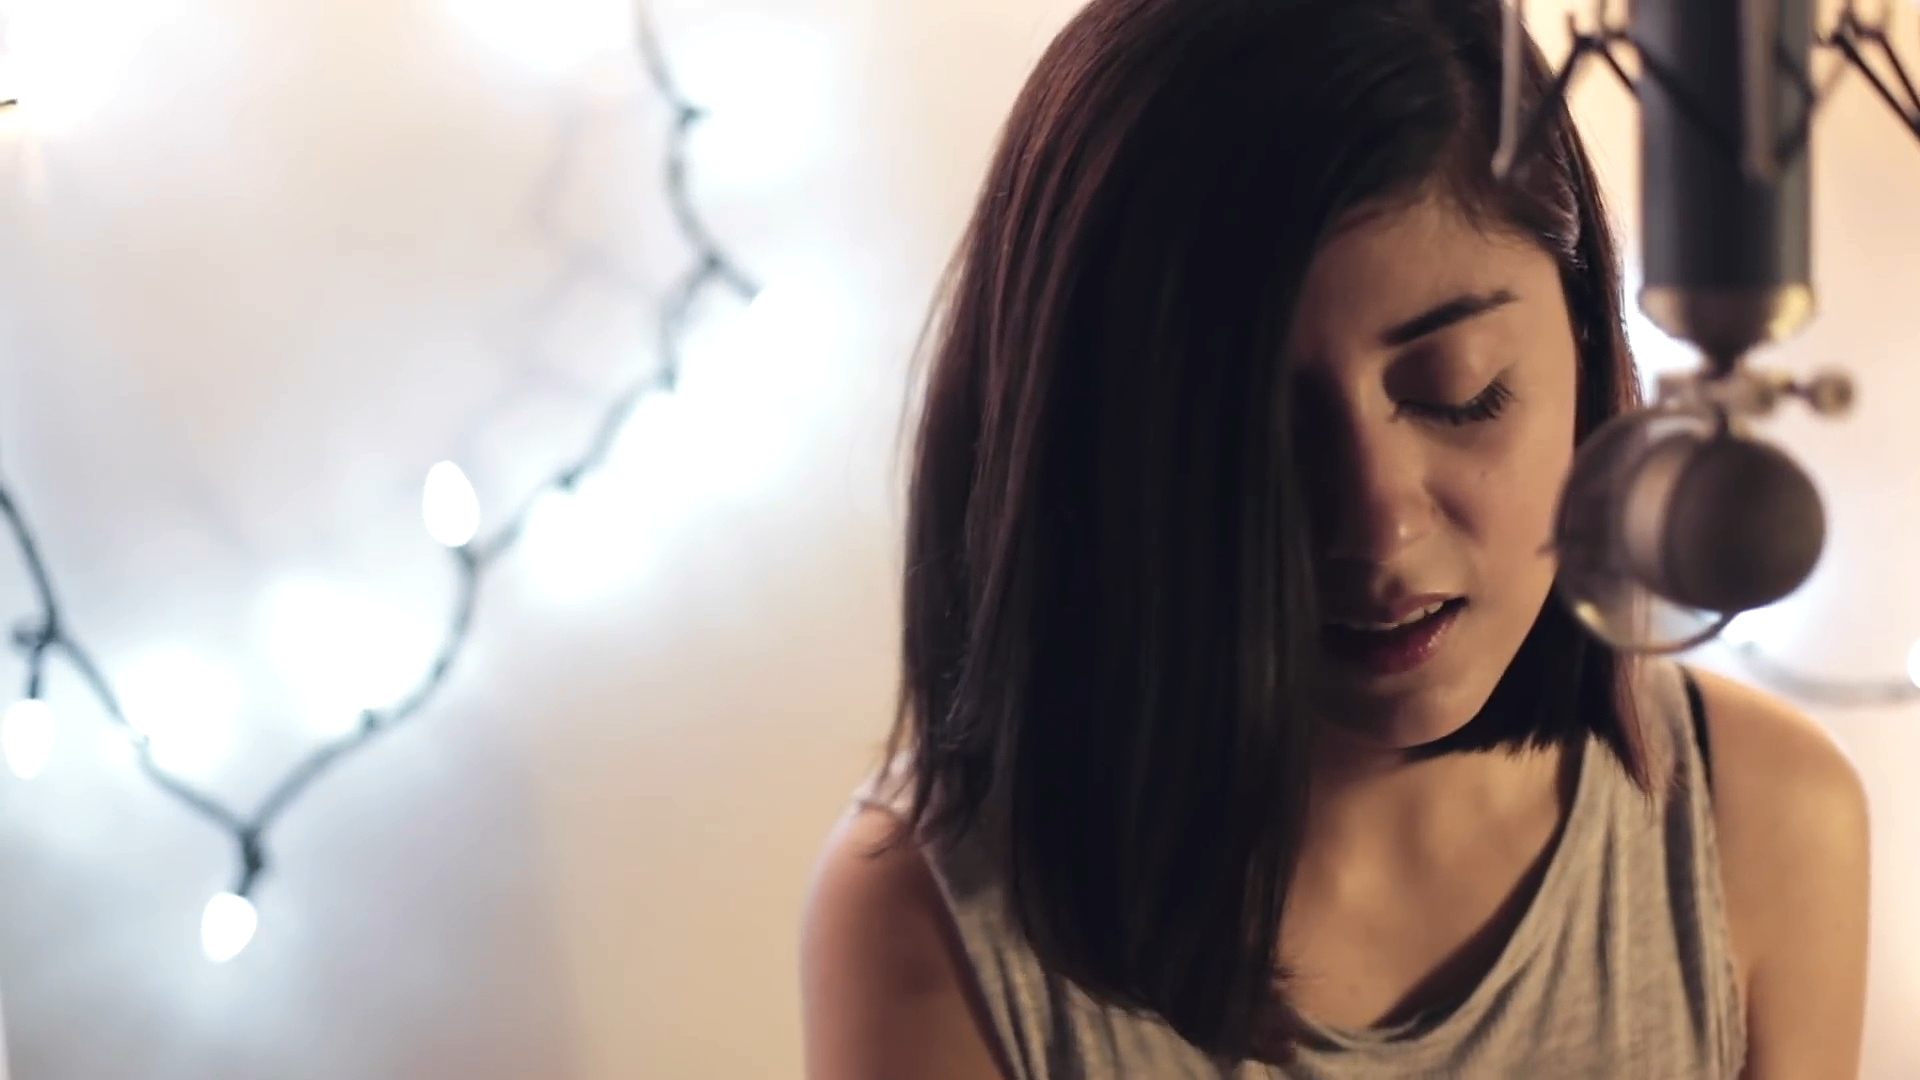
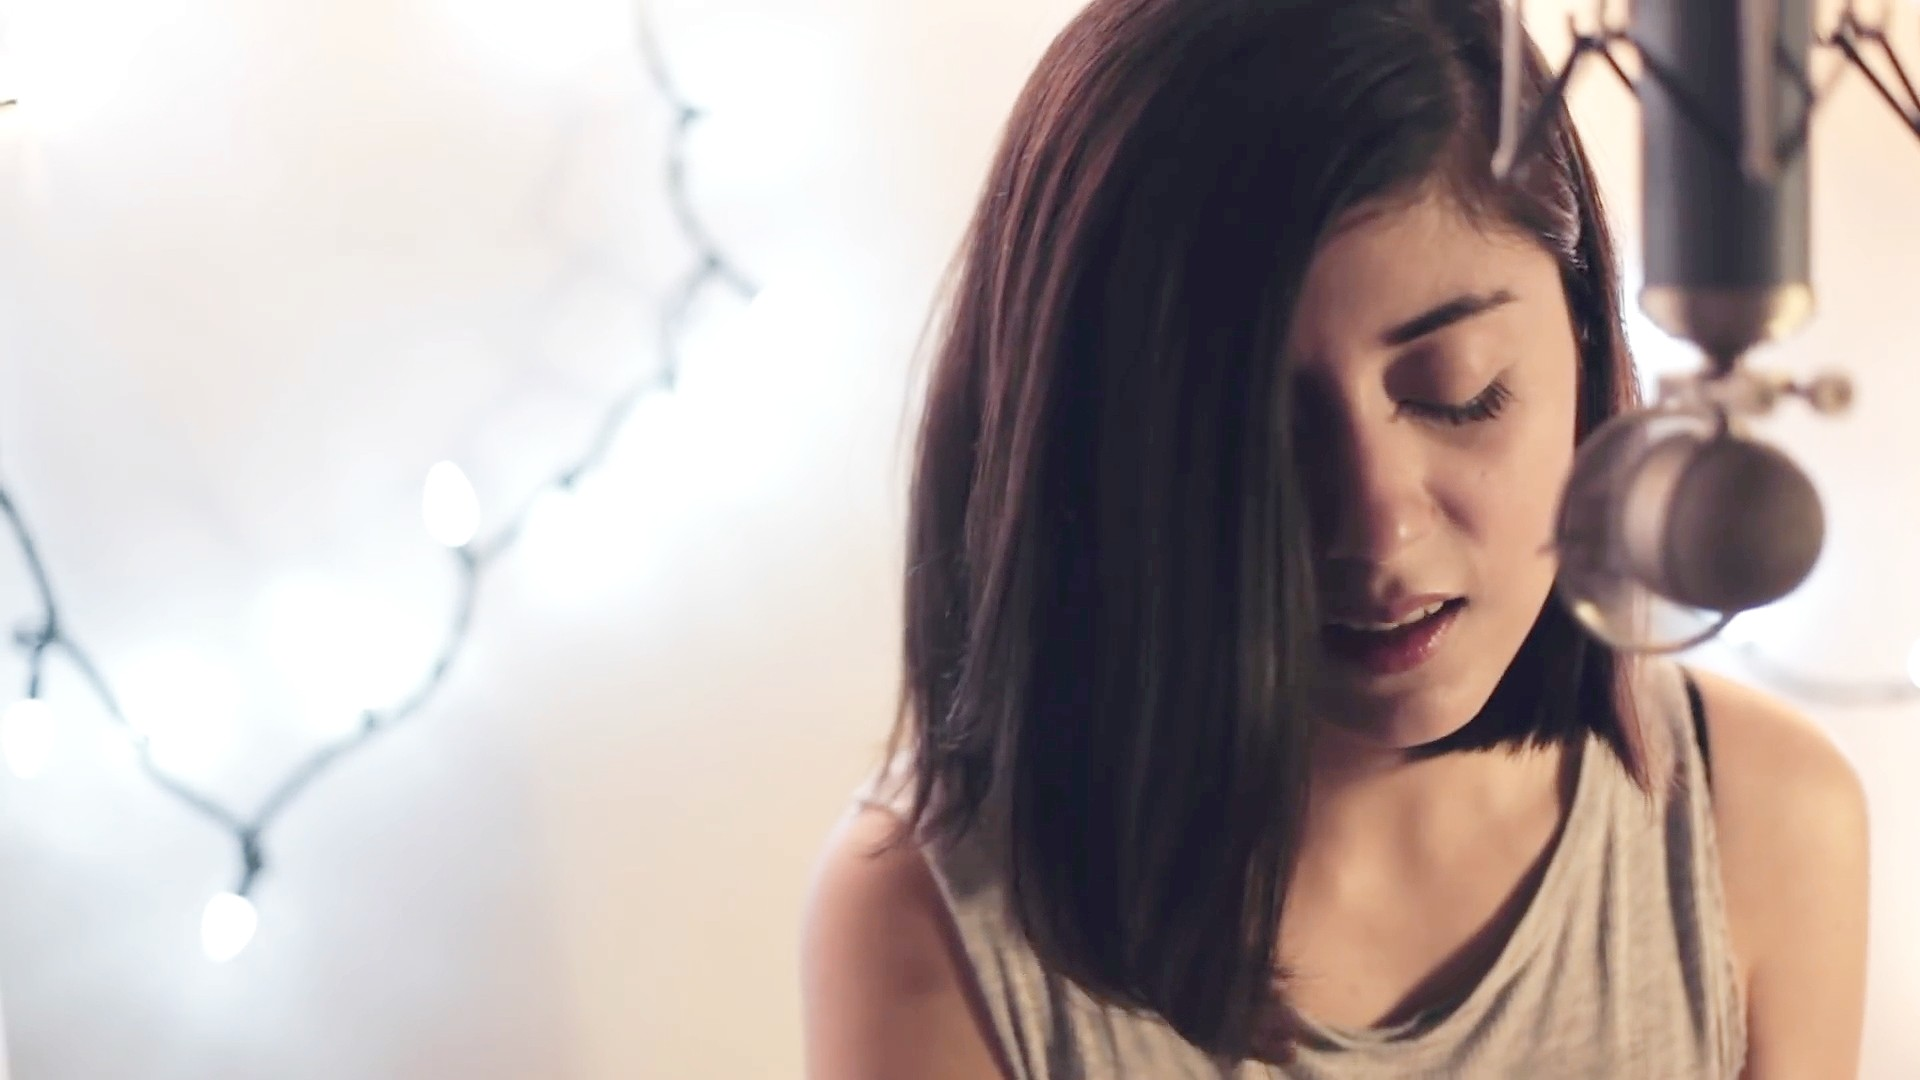
contact page: change BG & overlay

diff --git a/assets/css/style.css b/assets/css/style.css
@@ -251,12 +251,13 @@ section, .section-content{
 /****************** section-4 booking contact */
 
 .overlay-4-grd{
-  background: rgb(199, 201, 109);
-  background: linear-gradient(90deg, rgba(199, 201, 109, 0.8) 45%, rgba(255,255,255,0) 60%);
+  background: rgb(229, 220, 213);
+  background: linear-gradient(90deg, rgb(230, 221, 214) 45%, rgba(255,255,255,0) 60%);
 }
 
+
 .section-4{
-  background-image: url('../media/daniela-walk-road2.jpg');
+  background-image: url('../media/daniela-mic-right3.jpg');
   /* background-attachment: fixed; */
   /* it's very tricky to find good image layout for parallax effect 
      that fit in all devices & desktop. so i made it scroll (not-fixed) */
@@ -296,7 +297,7 @@ except these settings */
   }
   
   .overlay-4-grd{
-    background:rgba(199, 201, 109, 0.8);
+    background:rgba(229, 220, 213, 0.8);
     /* background:rgba(0, 0, 0, 0.8); */
   }
   
